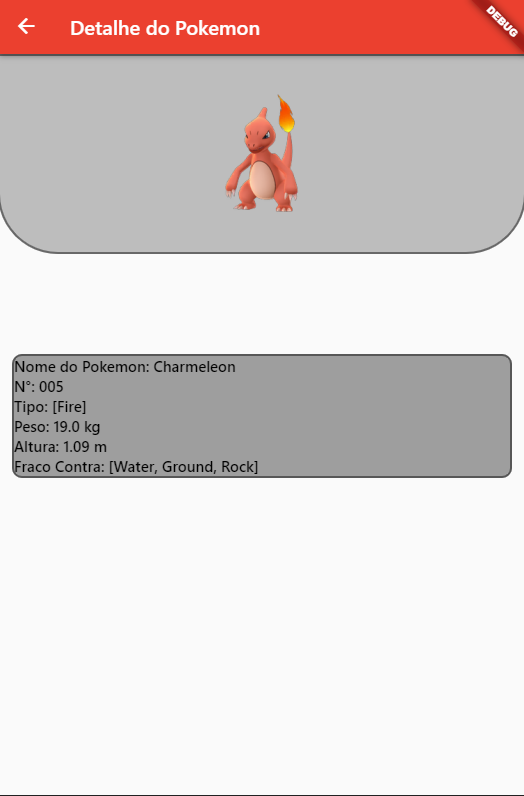
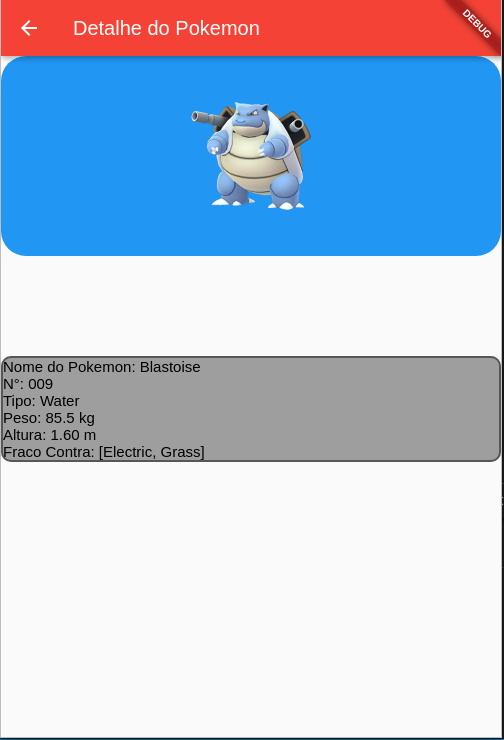
adicionando cores do pokemon

diff --git a/lib/home.dart b/lib/home.dart
@@ -1,3 +1,4 @@
+import 'dart:convert';
 import 'package:flutter/material.dart';
 import 'api/pokemon.dart';
 
@@ -11,9 +12,11 @@ class MyHomePage extends StatelessWidget {
   Widget build(BuildContext context) {
     return Scaffold(
       appBar: AppBar(
-        title: Text(title),
+        title: Container(child: Text(title),
+        ),
         backgroundColor: Colors.red,
       ),
+      
       body: FutureBuilder<List<Dados>>(
         future: dados(),
         builder: (context, snapshot) {
@@ -82,14 +85,42 @@ class PokemonsList extends StatelessWidget {
                                 children: [
                                   Container(
                                     decoration: BoxDecoration(
-                                      borderRadius: BorderRadius.only(
-                                      bottomLeft: Radius.circular(60), bottomRight: Radius.circular(60)),
-                                      color: Colors.grey[400],
-                                      border: Border.all(
-                                      color: Colors.black45,
-                                      width: 2.0,
-                                      )
-                                    ),
+                  color: pokemons[index].type == "Grass"
+                      ? Colors.greenAccent
+                      : pokemons[index].type == "Fire"
+                          ? Colors.redAccent
+                          : pokemons[index].type == "Water"
+                              ? Colors.blue
+                              : pokemons[index].type == "Poison"
+                                  ? Colors.deepPurpleAccent
+                                  : pokemons[index].type == "Electric"
+                                      ? Colors.amber
+                                      : pokemons[index].type == "Rock"
+                                          ? Colors.grey
+                                          : pokemons[index].type == "Ground"
+                                              ? Colors.brown
+                                              : pokemons[index].type ==
+                                                      "Psychic"
+                                                  ? Colors.indigo
+                                                  : pokemons[index].type ==
+                                                          "Fighting"
+                                                      ? Colors.orange
+                                                      : pokemons[index].type ==
+                                                              "Bug"
+                                                          ? Colors
+                                                              .lightGreenAccent
+                                                          : pokemons[index]
+                                                                      .type ==
+                                                                  "Ghost"
+                                                              ? Colors
+                                                                  .deepPurple
+                                                              : pokemons[index]
+                                                                          .type ==
+                                                                      "Normal"
+                                                                  ? Colors
+                                                                      .black26
+                                                                  : Colors.pink,
+                  borderRadius: BorderRadius.all(Radius.circular(25))),
                                     width: MediaQuery.of(context).size.width,
                                     height: 200,
                                     child: Image.network(
@@ -106,7 +137,7 @@ class PokemonsList extends StatelessWidget {
                                         topLeft: Radius.circular(10),
                                         topRight: Radius.circular(10)
                                         ),
-                                    color: Colors.grey,
+                                    color: Color.fromARGB(255, 158, 158, 158),
                                     border: Border.all(
                                       color: Colors.black45,
                                       width: 2.0,

diff --git a/lib/api/pokemon.dart b/lib/api/pokemon.dart
@@ -30,7 +30,7 @@ class Dados {
   String? name;
   String? img;
   String? num;
-  List<String>? type;
+  String? type;
   String? height;
   String? weight;
   List<String>? weaknesses;
@@ -51,7 +51,7 @@ class Dados {
     name = json['name'];
     img = json['img'];
     num = json['num'];
-    type = json['type'].cast<String>();
+    type = json['type'][0].toString();
     height = json['height'];
     weight = json['weight'];
     weaknesses = json['weaknesses'].cast<String>();
